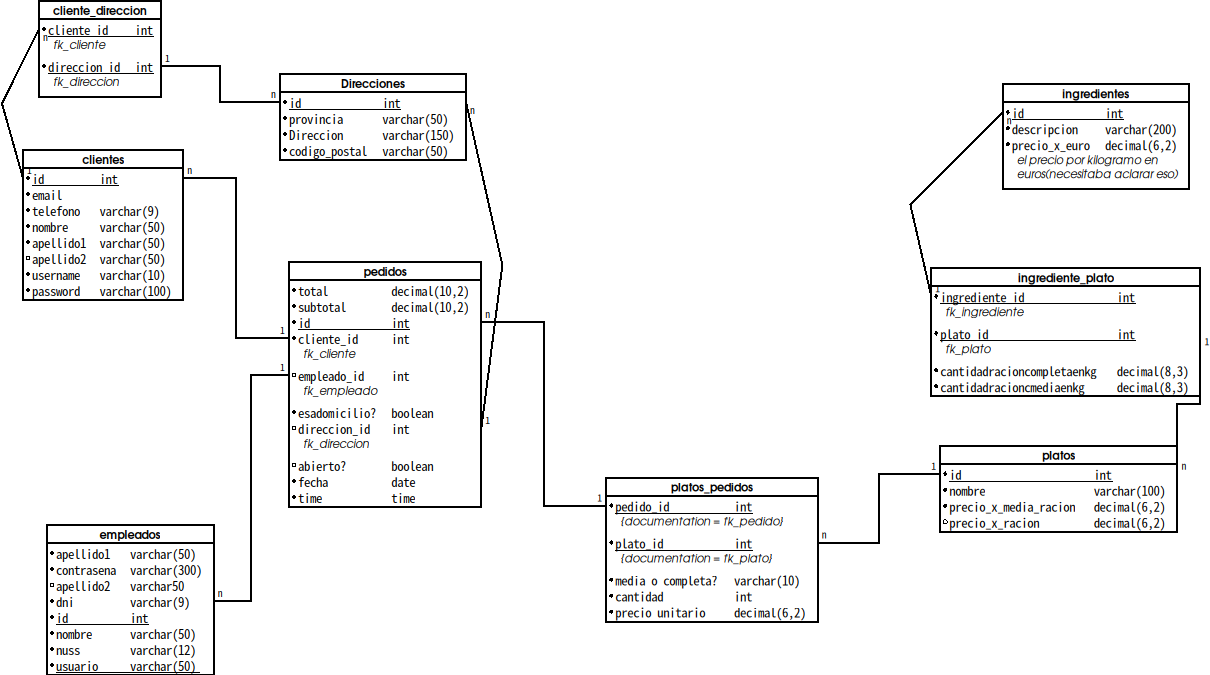
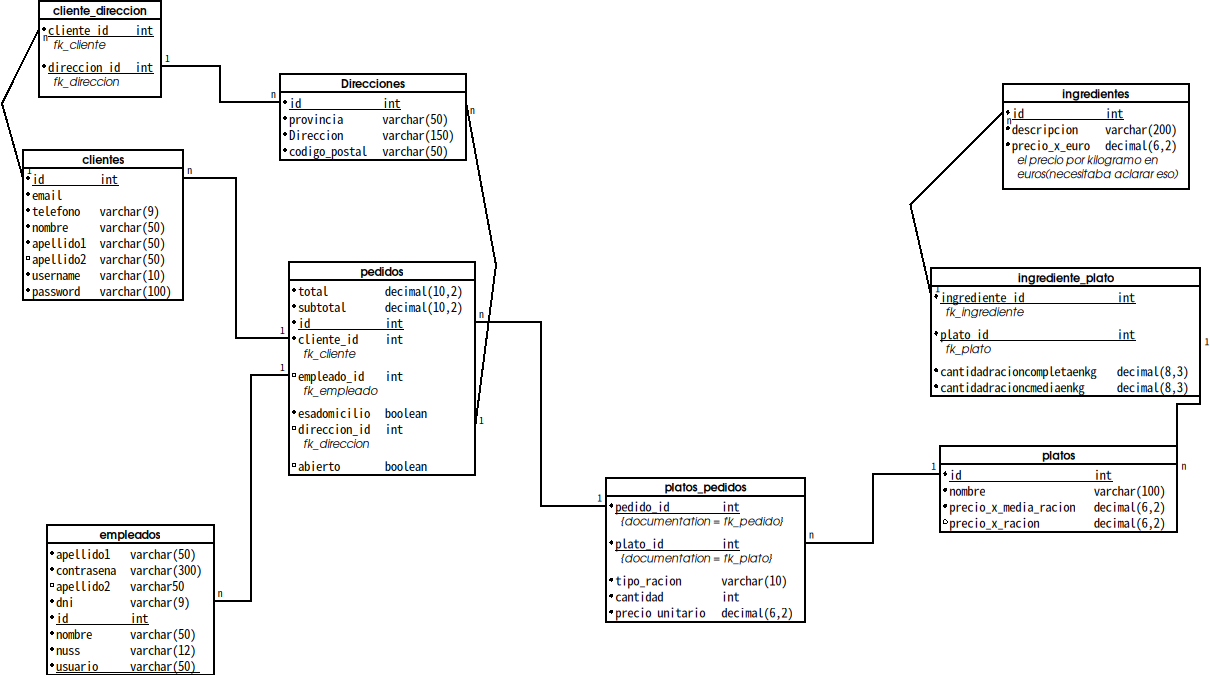
vere si funciona ahora

diff --git a/restaurant-ui/app.js b/restaurant-ui/app.js
@@ -117,7 +117,7 @@ function renderOrdersTable() {
     tbody.innerHTML = '';
     state.orders.slice().reverse().slice(0, 15).forEach(order => {
         const client = state.clients.find(c => c.id === order.cliente_id);
-        const isOpen = order['abierto?'] === 1 || order['abierto?'] === true;
+        const isOpen = order.abierto === 1 || order.abierto === true;
         const tr = document.createElement('tr');
         tr.innerHTML = `
             <td>#${order.id}</td>
@@ -135,7 +135,7 @@ function renderOrdersTable() {
 }
 
 function updateStats() {
-    const openOrders = state.orders.filter(o => o['abierto?'] === 1 || o['abierto?'] === true);
+    const openOrders = state.orders.filter(o => o.abierto === 1 || o.abierto === true);
     document.getElementById('count-active').innerText = openOrders.length;
     const total = state.orders.reduce((acc, curr) => acc + parseFloat(curr.total || 0), 0);
     document.getElementById('revenue-today').innerText = `${total.toFixed(2)}€`;
@@ -191,7 +191,7 @@ async function openOrderModal(orderId = null) {
         state.currentNewOrder.id = orderId;
         const order = state.orders.find(o => o.id === orderId);
         state.currentNewOrder.clientId = order.cliente_id;
-        state.currentNewOrder.type = order.es_a_domicilio ? 'delivery' : 'local';
+        state.currentNewOrder.type = order.esadomicilio ? 'delivery' : 'local';
         document.getElementById('client-select').value = order.cliente_id;
         document.querySelectorAll('.toggle-btn').forEach(b => b.classList.toggle('active', b.dataset.type === state.currentNewOrder.type));
         try {
@@ -210,14 +210,15 @@ window.editOrder = openOrderModal;
 window.closeOrder = async (id) => {
     try {
         const order = state.orders.find(o => o.id === id);
-        const newStatus = (order['abierto?'] === 1 || order['abierto?'] === true) ? 0 : 1;
+        const isOpen = order.abierto === 1 || order.abierto === true;
+        const newStatus = isOpen ? 0 : 1;
         await fetch(`${API_BASE}/pedidos/${id}`, { 
             method: 'PUT', 
             headers: { 'Content-Type': 'application/json' }, 
-            body: JSON.stringify({ 'abierto?': newStatus }) 
+            body: JSON.stringify({ abierto: newStatus }) 
         });
-        loadDashboard();
-    } catch (e) {}
+        await loadDashboard();
+    } catch (e) { console.error('Close Error:', e); }
 };
 
 function closeModal() { document.getElementById('order-modal').style.display = 'none'; }
@@ -270,7 +271,7 @@ async function submitOrder() {
                     total, 
                     subtotal, 
                     cliente_id: parseInt(o.clientId), 
-                    'esadomicilio?': o.type === 'delivery' ? 1 : 0 
+                    esadomicilio: o.type === 'delivery' ? 1 : 0 
                 })
             });
         } else {
@@ -282,8 +283,9 @@ async function submitOrder() {
                 total, subtotal,
                 cliente_id: parseInt(o.clientId),
                 empleado_id: state.currentUser ? state.currentUser.id : 1,
-                'esadomicilio?': o.type === 'delivery' ? 1 : 0,
-                direccion_id: (o.type === 'delivery' && addrVal) ? parseInt(addrVal) : null
+                esadomicilio: o.type === 'delivery' ? 1 : 0,
+                direccion_id: (o.type === 'delivery' && addrVal) ? parseInt(addrVal) : null,
+                abierto: 1
             };
             console.log('Payload:', body);
 
@@ -315,9 +317,9 @@ async function submitOrder() {
                     body: JSON.stringify({
                         pedido_id: orderId,
                         plato_id: item.id,
-                        'media o completa?': 'completa',
+                        tipo_racion: 'completa',
                         cantidad: item.cantidad,
-                        'precio unitario': item.precio_x_racion
+                        precio_unitario: item.precio_x_racion
                     })
                 });
                 if (!res.ok) console.warn(`Item ${k} failed: ${res.status}`);

diff --git a/README.md b/README.md
@@ -230,9 +230,11 @@ Cabecera de cada pedido realizado.
 | `subtotal` | DECIMAL(10,2) | NOT NULL | Suma de los platos sin impuestos |
 | `cliente_id` | INT | NOT NULL, FK → clientes | Cliente que realiza el pedido |
 | `empleado_id` | INT | NOT NULL, FK → empleados | Empleado que atiende |
-| `esadomicilio?` | BOOLEAN | NOT NULL, DEFAULT FALSE | Si el pedido es para entregar |
+| `esadomicilio` | BOOLEAN | NOT NULL, DEFAULT FALSE | Si el pedido es para entregar |
 | `direccion_id` | INT | Nullable, FK → Direcciones | Dirección de entrega (si aplica) |
-| `abierto?` | BOOLEAN | NOT NULL, DEFAULT TRUE | Estado del pedido (abierto/cerrado) |
+| `abierto` | BOOLEAN | NOT NULL, DEFAULT TRUE | Estado del pedido (abierto/cerrado) |
+| `fecha` | DATE | DEFAULT CURRENT_DATE | Fecha del pedido |
+| `time` | TIME | DEFAULT CURRENT_TIME | Hora del pedido |
 
 #### `platos`
 Carta del restaurante.
